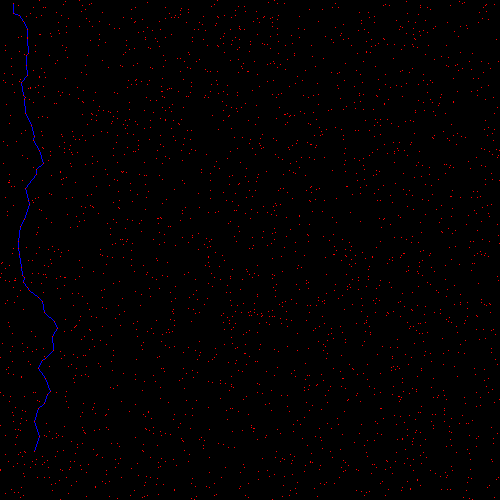
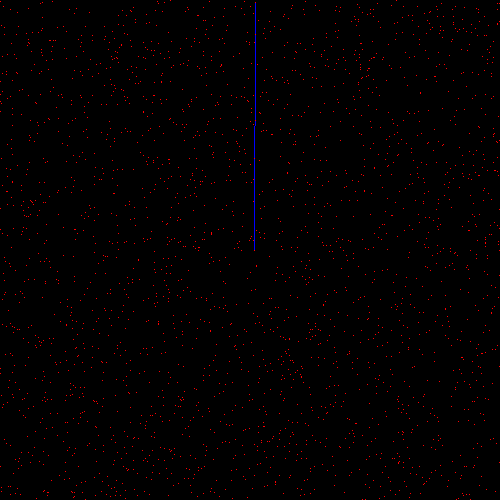
fdsjfhjds

diff --git a/src/main.rs b/src/main.rs
@@ -1,6 +1,8 @@
 
 use rand::Rng;
 use image::{RgbImage, Rgb};
+use std::time::{Instant, Duration};
+use rand::seq::SliceRandom;
 
 
 struct Air_point {
@@ -36,7 +38,7 @@ fn create_atomosphere(width: i32, height: i32, density: f64) -> Vec<Air_point> {
                 let point: Air_point = Air_point {
                     x: x,
                     y: y,
-                    field_strength: get_field_strength(x, y, height),
+                    field_strength: 0.0,
                 };
                 atomosphere.push(point);
             }
@@ -44,6 +46,13 @@ fn create_atomosphere(width: i32, height: i32, density: f64) -> Vec<Air_point> {
     }
 
     return atomosphere;
+}
+
+fn electrify_atomosphere(atomosphere: &mut Vec<Air_point>, x: u32, y: u32) {
+    for point in atomosphere.iter_mut() {
+        let dist = dist(x as i32, y as i32, point.x, point.y);
+        point.field_strength = 1.0 / (dist.powf(1.0)+1.0);
+    }
 }
 
 
@@ -91,16 +100,26 @@ fn draw_line(img: &mut RgbImage, x0: u32, y0: u32, x1: u32, y1: u32, color: Rgb<
 
 
 fn main() {
+
+    let mut rng = rand::thread_rng();
     
     let width = 500;
     let height = 500;
     let density: f64 = 0.01;// [density] Air_point's per unit^2. 1 is max, interpreted as probability that a given x,y screen pos constains an Air_point
 
+    let source = (250, 250);
+
+    // create the atomosphere
+    let mut atomosphere  = create_atomosphere(width, height, density);
+
+    // give it an electric field
+    electrify_atomosphere(&mut atomosphere, source.0, source.1);
+
     while true {
+        let start_time = Instant::now();
 
         
-        // create the atomosphere
-        let mut atomosphere  = create_atomosphere(width, height, density);
+        
 
         // init the bolt.
         let mut bolt: Bolt = Bolt {
@@ -121,26 +140,21 @@ fn main() {
 
             let last = bolt.points.last().unwrap();
 
-            let nearby: Vec<&Air_point> = atomosphere.iter()
-                .filter(|p| basic_dist(last.x, last.y, p.x, p.y) < 20.0).collect();
-            
+            let mut sorted_nearby: Vec<&Air_point> = atomosphere.iter()
+                .filter(|p| basic_dist(last.x, last.y, p.x, p.y) < 20.0)
+                .filter(|p| !bolt.points.iter().any(|bp| std::ptr::eq(*bp, *p)))
+                .collect();
 
-            let mut sorted_atompshphere: Vec<&&Air_point> = {// sorth the atomosphere points by electric field
-                let mut refs: Vec<&&Air_point> = nearby.iter().collect();
-
-                refs.sort_by(|a, b| {
-                    get_relative_field_strength(last, a).total_cmp(&get_relative_field_strength(last, b))
-                });
-
-                refs
-            };
-            sorted_atompshphere.retain(|p| !bolt.points.iter().any(|bp| std::ptr::eq(*bp, **p)));// remove all points that bolt has already touched
-            
+            sorted_nearby.sort_by(|a, b| {
+                get_relative_field_strength(last, a)
+                    .total_cmp(&get_relative_field_strength(last, b))
+            });
             // take the best candidate
-            bolt.points.push(sorted_atompshphere.first().expect("empty atomosphere :("));
+
+            bolt.points.push(sorted_nearby.first().expect("empty atomosphere :("));
 
             i += 1;
-            if (bolt.points.last().unwrap().y as f64 > width as f64 * 0.9) {
+            if (dist(bolt.points.last().unwrap().x, bolt.points.last().unwrap().y, source.0 as i32, source.1 as i32) < 10.0) {
                 running = false;
             }
 
@@ -172,6 +186,12 @@ fn main() {
         }
 
         img.save("bolt.png").unwrap();
+    
+        
+        println!("fps: {}", 1000.0 / start_time.elapsed().as_millis() as f64);
+
+        return;
+
     }
 
 }
